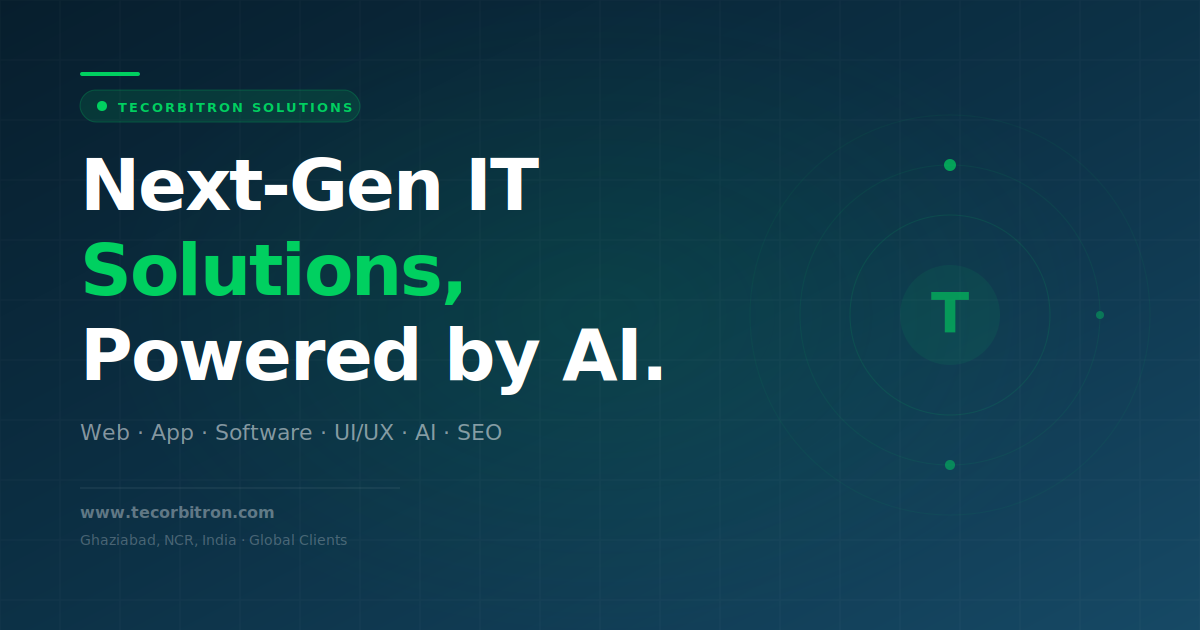
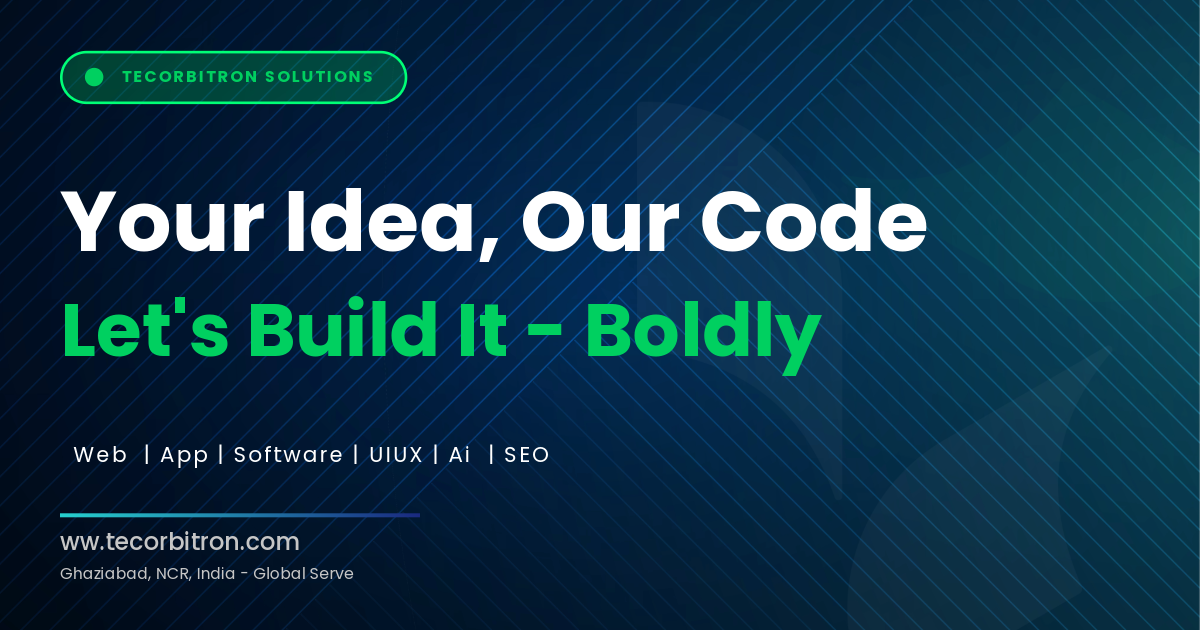
feat: enhance SEO by adding keywords to metadata across multiple pages; implement 404 Not Found page

diff --git a/src/app/not-found.tsx b/src/app/not-found.tsx
@@ -1,0 +1,110 @@
+import Link from "next/link";
+import { ArrowLeft, ArrowRight } from "lucide-react";
+
+export const metadata = {
+    title: "404 — Page Not Found",
+    description: "The page you are looking for does not exist.",
+    robots: { index: false, follow: false },
+};
+
+export default function NotFound() {
+    return (
+        <main
+            className="relative flex min-h-screen w-full flex-col items-center justify-center overflow-hidden px-4"
+            style={{
+                background:
+                    "linear-gradient(135deg, #071e2d 0%, #0c3146 50%, #164965 100%)",
+            }}
+        >
+            {/* Radial glow */}
+            <div
+                className="pointer-events-none absolute inset-0"
+                style={{
+                    background:
+                        "radial-gradient(ellipse 70% 60% at 50% 50%, rgba(0,208,96,0.07) 0%, transparent 70%)",
+                }}
+            />
+
+            {/* Grid */}
+            <div
+                className="pointer-events-none absolute inset-0 opacity-[0.03]"
+                style={{
+                    backgroundImage:
+                        "linear-gradient(rgba(255,255,255,1) 1px, transparent 1px), linear-gradient(90deg, rgba(255,255,255,1) 1px, transparent 1px)",
+                    backgroundSize: "60px 60px",
+                }}
+            />
+
+            {/* Giant 404 background text */}
+            <div
+                className="pointer-events-none absolute inset-0 flex items-center justify-center select-none"
+                aria-hidden
+            >
+                <span
+                    className="leading-none font-black text-white/[0.03]"
+                    style={{ fontSize: "clamp(180px, 40vw, 420px)" }}
+                >
+                    404
+                </span>
+            </div>
+
+            {/* Content */}
+            <div className="relative z-10 flex max-w-xl flex-col items-center gap-6 text-center">
+                {/* Eyebrow */}
+                <div className="border-malachite/20 bg-malachite/10 inline-flex items-center gap-2 rounded-full border px-4 py-1.5">
+                    <span className="bg-malachite h-1.5 w-1.5 rounded-full" />
+                    <span className="text-malachite text-xs font-bold tracking-widest uppercase">
+                        Error 404
+                    </span>
+                </div>
+
+                {/* Heading */}
+                <h1 className="text-4xl font-black tracking-tight text-white sm:text-5xl">
+                    Lost in <span className="text-malachite">Orbit?</span>
+                </h1>
+
+                {/* Description */}
+                <p className="text-base leading-relaxed font-light text-white/50">
+                    The page you&apos;re looking for doesn&apos;t exist or has
+                    been moved. Let&apos;s get you back on track.
+                </p>
+
+                {/* CTAs */}
+                <div className="mt-2 flex flex-col items-center gap-3 sm:flex-row">
+                    <Link
+                        href="/"
+                        className="bg-malachite text-deepspace-deep hover:bg-malachite-soft inline-flex items-center gap-2 rounded-full px-7 py-3.5 text-sm font-bold transition-all duration-200 hover:-translate-y-0.5"
+                    >
+                        <ArrowLeft size={15} />
+                        Back to Home
+                    </Link>
+                    <Link
+                        href="/contact"
+                        className="inline-flex items-center gap-2 rounded-full border border-white/10 bg-white/10 px-7 py-3.5 text-sm font-bold text-white transition-all duration-200 hover:-translate-y-0.5 hover:bg-white/15"
+                    >
+                        Contact Us
+                        <ArrowRight size={15} />
+                    </Link>
+                </div>
+
+                {/* Quick links */}
+                <div className="mt-4 flex flex-wrap items-center justify-center gap-4">
+                    {[
+                        { label: "Services", href: "/services" },
+                        { label: "Our Work", href: "/portfolio" },
+                        { label: "Blog", href: "/blog" },
+                        { label: "About", href: "/about" },
+                    ].map((link) => (
+                        <Link
+                            key={link.href}
+                            href={link.href}
+                            className="hover:text-malachite text-xs font-semibold text-white/30 underline-offset-4 transition-colors duration-200 hover:underline"
+                        >
+                            {link.label}
+                        </Link>
+                    ))}
+                </div>
+            </div>
+        </main>
+    );
+}

diff --git a/src/app/(pages)/services/page.tsx b/src/app/(pages)/services/page.tsx
@@ -11,6 +11,16 @@ export const metadata: Metadata = {
     title: "Services",
     description:
         "Tecorbitron offers end-to-end IT services — Web Development, App Development, Custom Software, UI/UX Design, AI Solutions, and SEO & Digital Marketing for businesses of all sizes.",
+    keywords: [
+        "IT services India",
+        "web development services India",
+        "app development company India",
+        "custom software development",
+        "UI UX design agency India",
+        "AI solutions India",
+        "SEO services India",
+        "Tecorbitron services",
+    ],
     alternates: { canonical: "/services" },
     openGraph: {
         title: "IT Services — Tecorbitron Solutions",

diff --git a/src/app/(pages)/about/page.tsx b/src/app/(pages)/about/page.tsx
@@ -12,6 +12,14 @@ export const metadata: Metadata = {
     title: "About Us",
     description:
         "Learn about Tecorbitron Solutions — a registered IT company based in Ghaziabad, NCR, India. Founded by Sagar Chauhan, we build web, app, and software solutions for businesses globally.",
+    keywords: [
+        "Tecorbitron about",
+        "Tecorbitron Solutions",
+        "IT company Ghaziabad",
+        "software company NCR India",
+        "Sagar Chauhan founder",
+        "registered IT company India",
+    ],
     alternates: { canonical: "/about" },
     openGraph: {
         title: "About Tecorbitron Solutions",

diff --git a/src/app/(pages)/blog/page.tsx b/src/app/(pages)/blog/page.tsx
@@ -13,6 +13,14 @@ export const metadata: Metadata = {
     title: "Blog",
     description:
         "Tech insights, SEO guides, AI trends, and web development tips from the Tecorbitron team. Practical knowledge for business owners and developers.",
+    keywords: [
+        "tech blog India",
+        "web development tips",
+        "SEO guides",
+        "AI trends",
+        "software development insights",
+        "Tecorbitron blog",
+    ],
     alternates: { canonical: "/blog" },
     openGraph: {
         title: "The Knowledge Nexus — Tecorbitron Blog",

diff --git a/src/app/(pages)/careers/page.tsx b/src/app/(pages)/careers/page.tsx
@@ -9,6 +9,13 @@ export const metadata: Metadata = {
     title: "Careers",
     description:
         "Join the Tecorbitron team. We're hiring remote-first developers, designers, and marketers. Fast growth, real ownership, honest culture.",
+    keywords: [
+        "Tecorbitron careers",
+        "IT jobs remote India",
+        "web developer jobs India",
+        "software company hiring",
+        "remote tech jobs India",
+    ],
     alternates: { canonical: "/careers" },
     openGraph: {
         title: "Careers at Tecorbitron Solutions",

diff --git a/src/app/(pages)/contact/page.tsx b/src/app/(pages)/contact/page.tsx
@@ -10,6 +10,13 @@ export const metadata: Metadata = {
     title: "Contact Us",
     description:
         "Get in touch with Tecorbitron Solutions. Tell us about your project and we'll get back within 24 hours. Free consultation, no strings attached.",
+    keywords: [
+        "contact Tecorbitron",
+        "hire IT company India",
+        "web development consultation",
+        "software project inquiry",
+        "IT services Ghaziabad",
+    ],
     alternates: { canonical: "/contact" },
     openGraph: {
         title: "Contact Tecorbitron Solutions",

diff --git a/src/app/(pages)/portfolio/page.tsx b/src/app/(pages)/portfolio/page.tsx
@@ -10,6 +10,13 @@ export const metadata: Metadata = {
     title: "Our Work",
     description:
         "Explore Tecorbitron's portfolio — web apps, mobile apps, e-commerce platforms, and custom software solutions delivered for clients across India and beyond.",
+    keywords: [
+        "Tecorbitron portfolio",
+        "web development projects India",
+        "software development case studies",
+        "app development portfolio",
+        "IT company work samples",
+    ],
     alternates: { canonical: "/portfolio" },
     openGraph: {
         title: "Portfolio — Tecorbitron Solutions",

diff --git a/src/app/(pages)/portfolio/[slug]/page.tsx b/src/app/(pages)/portfolio/[slug]/page.tsx
@@ -22,6 +22,10 @@ import type {
     PortableTextListComponent,
     PortableTextListItemComponent,
 } from "@portabletext/react";
+import StructuredData, {
+    portfolioProjectSchema,
+} from "@/components/StructuredData";
+
 
 // ── Static Params ─────────────────────────────────────────────────────────────
 export async function generateStaticParams() {
@@ -160,6 +164,7 @@ export default async function ProjectDetailPage(props: {
 
     return (
         <main>
+            <StructuredData data={portfolioProjectSchema(projData)} />;
             {/* ── HERO ── */}
             <section className="relative w-full overflow-hidden pt-24">
                 <div className="bg-deepspace relative h-72 w-full sm:h-96 lg:h-120">
@@ -211,7 +216,6 @@ export default async function ProjectDetailPage(props: {
                     </div>
                 </div>
             </section>
-
             {/* ── CONTENT ── */}
             <section className="bg-white px-4 py-16">
                 <div className="mx-auto max-w-7xl">

diff --git a/src/app/(pages)/blog/[slug]/page.tsx b/src/app/(pages)/blog/[slug]/page.tsx
@@ -17,6 +17,7 @@ import {
     BLOG_DETAIL_QUERY,
     BLOG_RELATED_QUERY,
 } from "@/sanity/queries/blog";
+import StructuredData, { blogPostSchema } from "@/components/StructuredData";
 
 // ─── Types ────────────────────────────────────────────────────────────────────
 
@@ -356,7 +357,7 @@ export default async function BlogPostPage(props: {
 
     return (
         <main>
-            {/* ── HERO ── */}
+            <StructuredData data={blogPostSchema(post)} />;{/* ── HERO ── */}
             <section className="relative w-full overflow-hidden pt-24">
                 <div className="bg-deepspace relative h-72 w-full sm:h-96 lg:h-120">
                     {post.coverImage ? (
@@ -419,7 +420,6 @@ export default async function BlogPostPage(props: {
                     </div>
                 </div>
             </section>
-
             {/* ── CONTENT ── */}
             <section className="bg-white px-4 py-16">
                 <div className="mx-auto max-w-4xl">

diff --git a/src/components/page/services/CTA.tsx b/src/components/page/services/CTA.tsx
@@ -46,7 +46,7 @@ export default function ServicesCTA() {
 
                 <div className="mt-2 flex flex-col items-center gap-3 sm:flex-row">
                     <Link
-                        href="/contact"
+                        href="https://cal.com/tecorbitron/discovery-call"
                         className="bg-malachite text-deepspace-deep hover:bg-malachite-soft hover:shadow-malachite/20 inline-flex items-center gap-2 rounded-full px-7 py-3.5 text-sm font-bold transition-all duration-200 hover:-translate-y-0.5 hover:shadow-lg"
                     >
                         <Calendar size={15} />

diff --git a/README.md b/README.md
@@ -1,6 +1,10 @@
 # Tecorbitron — Commit History
 
 ```
+commit 17
+    + Enhance SEO Data
+    + Implement Custom 404 page
+    + Create new Og image
 commit 16
     + Generate Meta Data
     + Add Structured JSON-LD Data